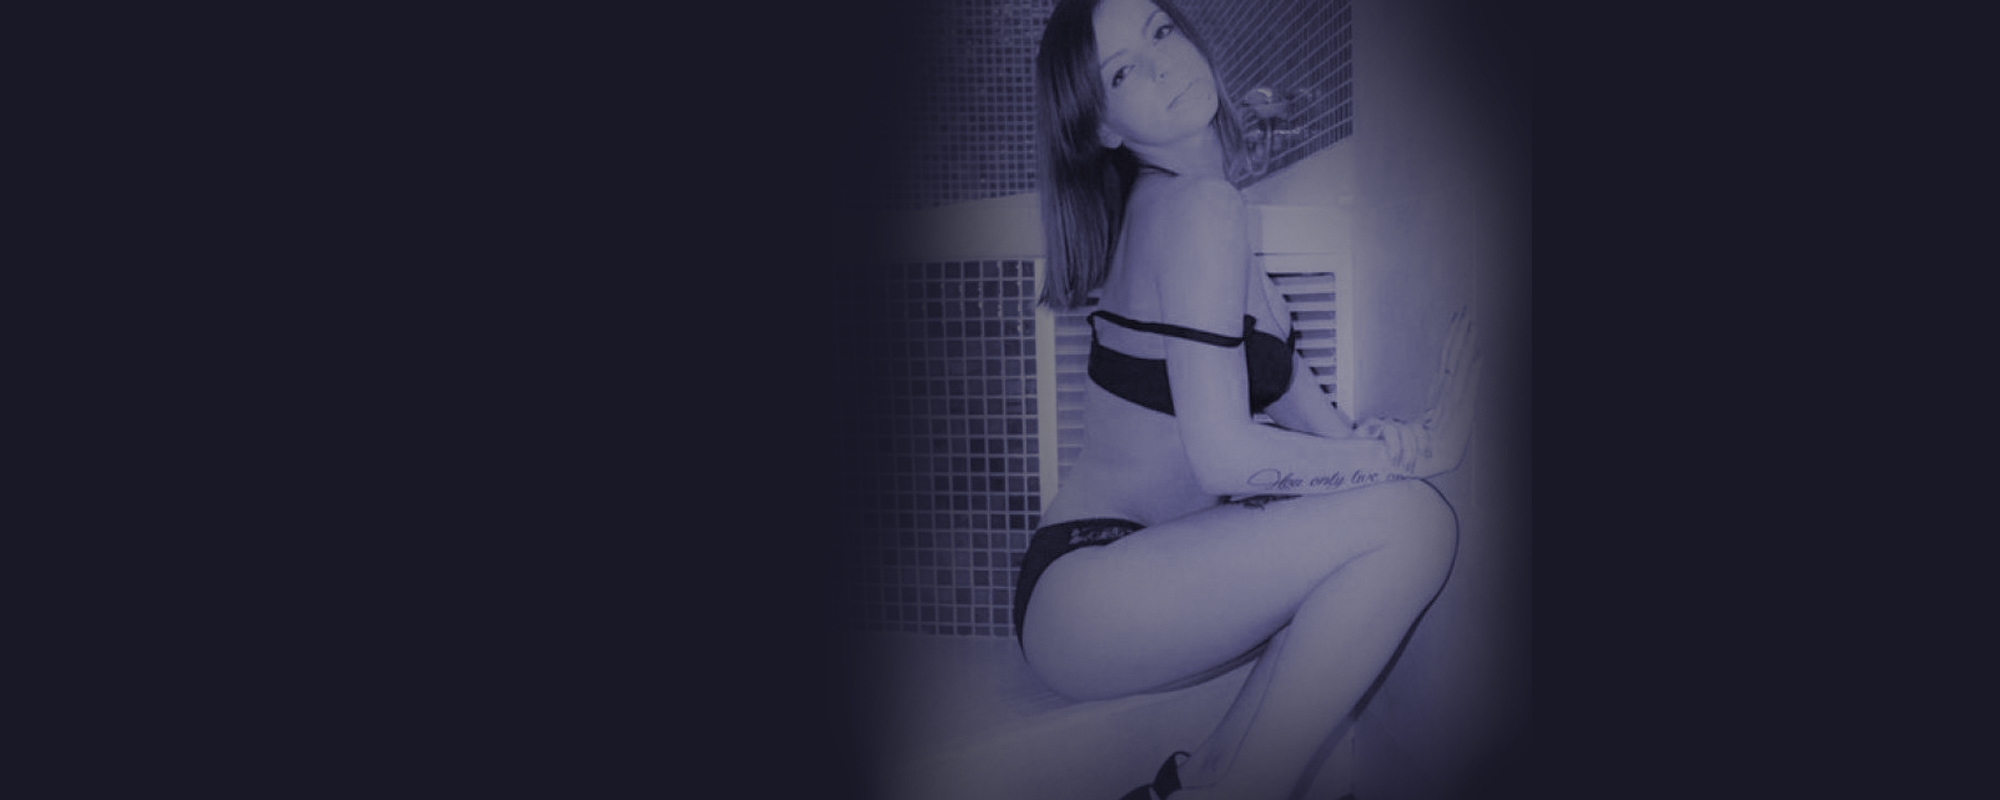
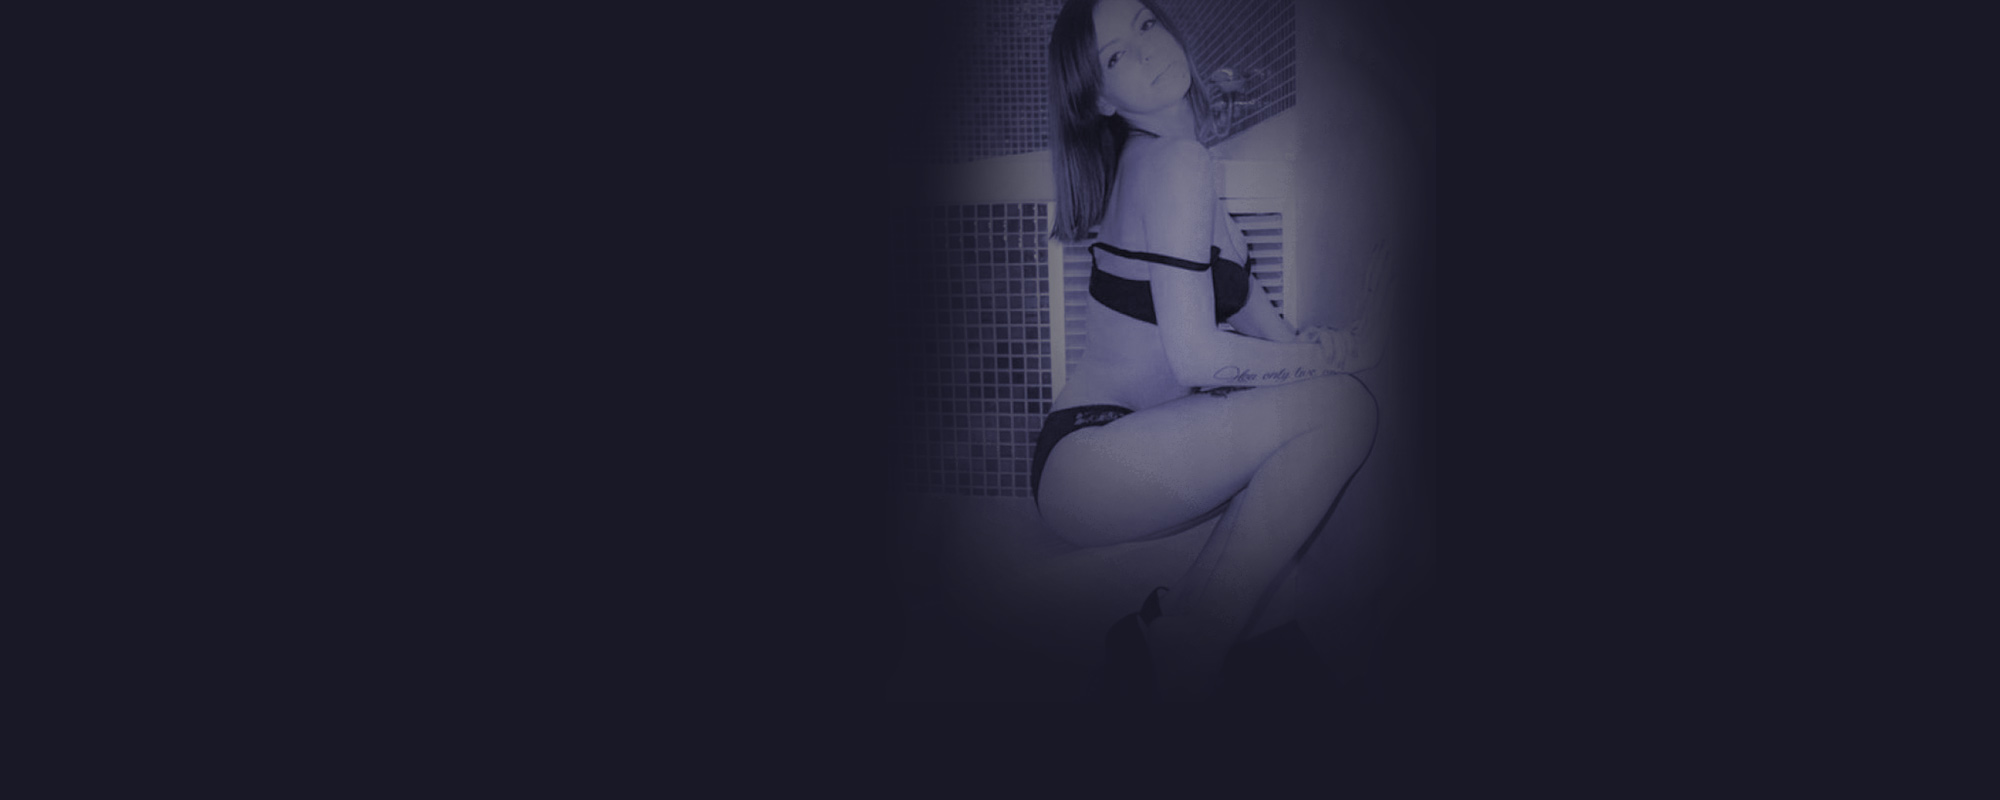
New Julia

Changed region(s): [[0.434, 0.0, 0.775, 1.0]]

diff --git a/websites/julia/index.html b/websites/julia/index.html
@@ -24,7 +24,7 @@
 	<header class="fixed-bg bg-intro">
 		<div class="wrapper bouncy">
 			<h1>Julia</h1>
-			<p>Tu Escort preferida</p>
+			<p style="margin-left: 60px;">Tu Caramelo</p>
 		</div>
 	</header>
 	<section id="intro">
@@ -39,32 +39,32 @@
 			<div class="title">Mis fotos</div>
 			<div id="thumbnails" class="clearfix my-gallery">
 				<figure>
-					<a href="static/images/photo-6.jpg" data-size="1024x1024">
+					<a href="static/images/photo-6.jpg" data-size="450x600">
 						<img class="2x" width="300" height="300" src="static/images/photo-6.jpg"/>
 					</a>
 				</figure>
 				<figure>
-					<a href="static/images/photo-5.jpg" data-size="1024x1024">
+					<a href="static/images/photo-5.jpg" data-size="450x600">
 						<img class="2x" width="300" height="300" src="static/images/photo-5.jpg"/>
 					</a>
 				</figure>
 				<figure>
-					<a href="static/images/photo-4.jpg" data-size="1024x1024">
+					<a href="static/images/photo-4.jpg" data-size="450x600">
 						<img class="2x" width="300" height="300" src="static/images/photo-4.jpg"/>
 					</a>
 				</figure>
 				<figure>
-					<a href="static/images/photo-3.jpg" data-size="1024x1024">
+					<a href="static/images/photo-3.jpg" data-size="450x600">
 						<img class="2x" width="300" height="300" src="static/images/photo-3.jpg"/>
 					</a>
 				</figure>
 				<figure>
-					<a href="static/images/photo-2.jpg" data-size="1024x1024">
+					<a href="static/images/photo-2.jpg" data-size="450x600">
 						<img class="2x" width="300" height="300" src="static/images/photo-2.jpg"/>
 					</a>
 				</figure>
 				<figure>
-					<a href="static/images/photo-1.jpg" data-size="1024x1024">
+					<a href="static/images/photo-1.jpg" data-size="450x600">
 						<img class="2x" width="300" height="300" src="static/images/photo-1.jpg"/>
 					</a>
 				</figure>

diff --git a/websites/julia/static/css/style.css b/websites/julia/static/css/style.css
@@ -151,6 +151,7 @@ img {
 	-ms-transition: all 0.2s ease;
 	-o-transition: all 0.2s ease;
 	transition: all 0.2s ease;
+	background: linear-gradient(-180deg, #514F67 30%, #D081B3 48%, #6c7c95 65%, #6a7b95 58%, #414F61 86%, #20252D 100%);
 }
 
 #thumbnails figure img {
@@ -158,9 +159,9 @@ img {
 	background: #fff;
 	width: 100%;
 	height: auto;
-	-webkit-filter: grayscale(100%) contrast(180%) brightness(95%);
-            filter: grayscale(100%) contrast(180%) brightness(95%);
-    opacity: 0.8;
+	-webkit-filter: grayscale(20%) contrast(130%);
+    filter: grayscale(20%) contrast(130%);
+    mix-blend-mode: hard-light;
 }
 
 #thumbnails figure span {
